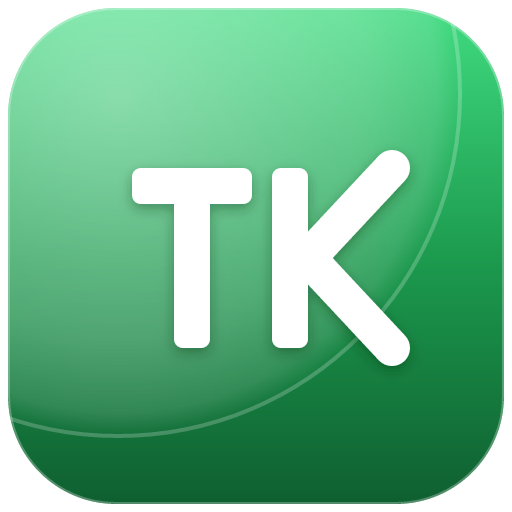
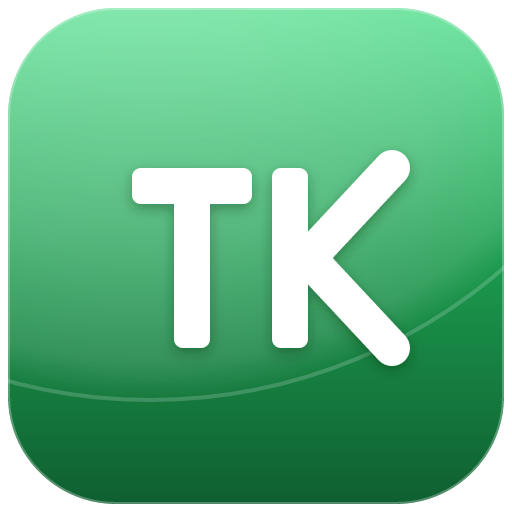
fix: โลโก้ TK — ลดความโค้งเส้นกระจก (gentle) ให้เหมือน FW ต้นฉบับ
เดิมโค้งชันเกิน → เพิ่มรัศมีวง (r540) เส้นกระจกกวาดกว้างแบนลง + เส้นจางลง (0.18)
sync generator · icon.svg · Logo.tsx + regenerate PNG

diff --git a/src/components/Logo.tsx b/src/components/Logo.tsx
@@ -34,8 +34,8 @@ export function Logo({ size = 40, className }: { size?: number; className?: stri
       </defs>
       <rect x="8" y="8" width="496" height="496" rx="108" fill="url(#tk-bg)" />
       <g clipPath="url(#tk-clip)">
-        <circle cx="118" cy="94" r="342" fill="url(#tk-gloss)" />
-        <circle cx="118" cy="94" r="342" fill="none" stroke="#ffffff" strokeOpacity="0.22" strokeWidth="4" />
+        <circle cx="150" cy="-140" r="540" fill="url(#tk-gloss)" />
+        <circle cx="150" cy="-140" r="540" fill="none" stroke="#ffffff" strokeOpacity="0.18" strokeWidth="4" />
       </g>
       <rect x="9" y="9" width="494" height="494" rx="107" fill="none" stroke="#ffffff" strokeOpacity="0.28" strokeWidth="2" />
       {/* TK monogram */}
